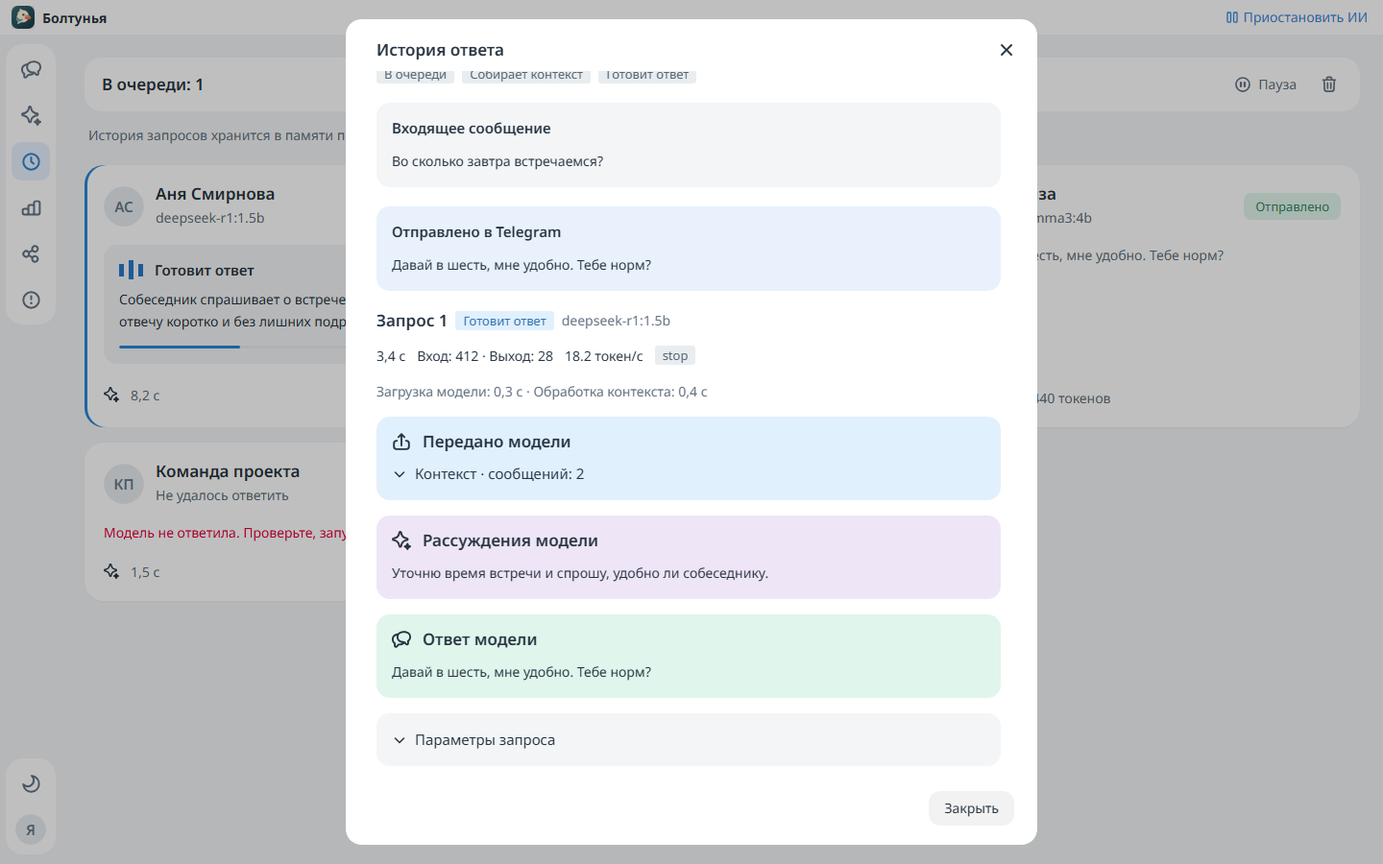
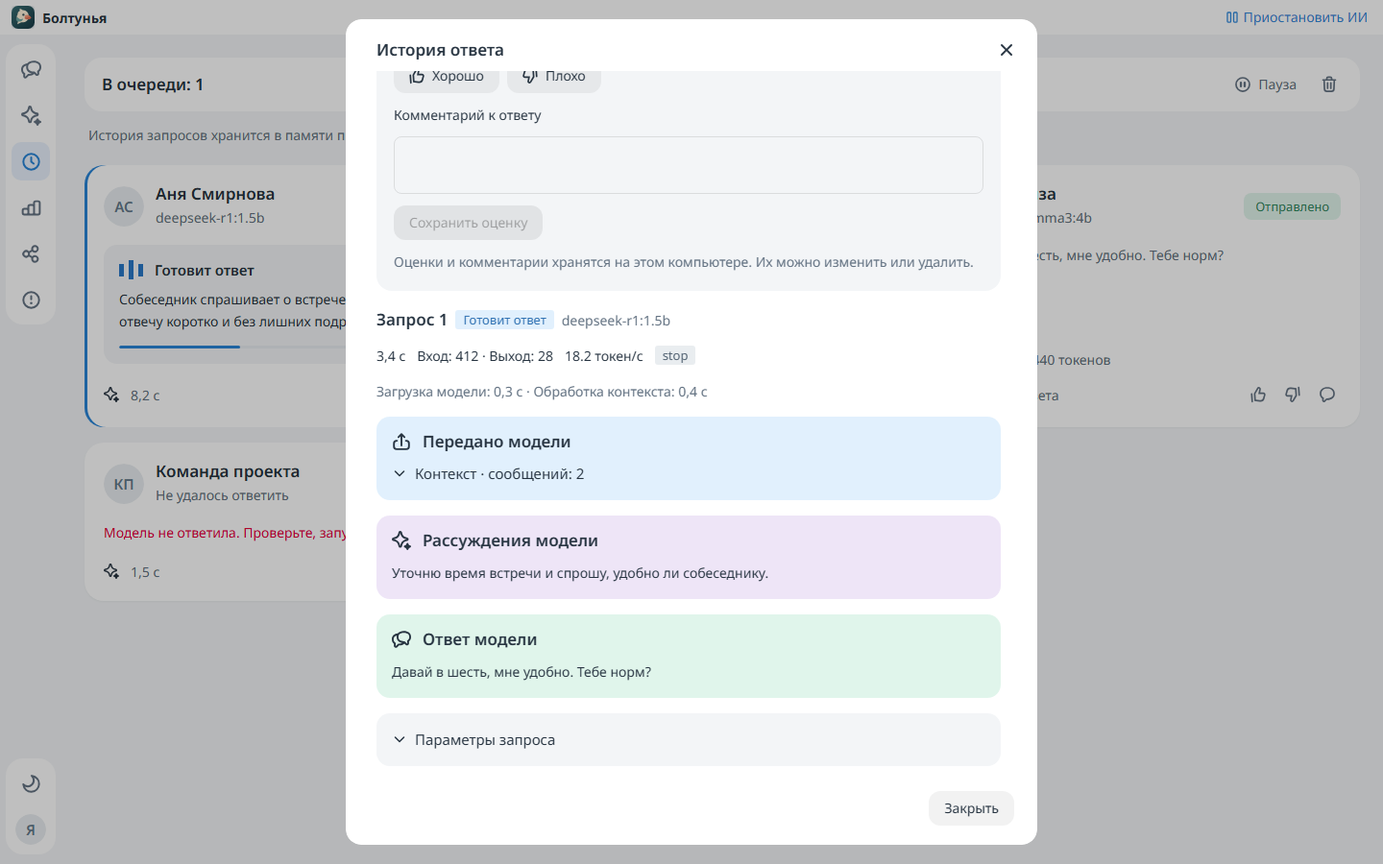
Document factual memory ratings and device controls

diff --git a/docs/ru.md b/docs/ru.md
@@ -57,7 +57,7 @@
 
 Генерация работает через Spring AI с типизированными сообщениями, отдельными рассуждениями и статистикой. Окно недавней переписки собирает ChatMemory, долговременные сведения остаются в MEMORY.md. Сервисы внедряются через Guice. Подробности: [архитектура ИИ](ai/ru.md).
 
-Помощник берёт образцы манеры из настоящих исходящих сообщений: слова, регистр, пунктуацию, сокращения и эмодзи. Известные автоответы ИИ исключаются. Общий профиль владельца помогает применять привычки и стиль в разных беседах. Выбранный стиль и явные инструкции дополняют эти сведения.
+Выбранный встроенный или именованный стиль передаётся отдельным блоком системных инструкций после фактического контекста. Необязательная подстройка использует настоящие исходящие сообщения для слов и пунктуации только в рамках выбранного стиля; известные автоответы ИИ исключаются. Автоматическая память больше не хранит манеру письма.
 
 Свои стили создаются в меню профиля: название, эмодзи и инструкции. Стиль меняет подачу ответа; сведения о владельце и текущие факты не должны выдумываться ради роли.
 
@@ -92,13 +92,15 @@ memory/
       MEMORY.md
 ```
 
-Общая память содержит подтверждённые факты о вас, привычки и манеру речи, собранные из ваших настоящих сообщений. Сообщения собеседников и известные автоответы ИИ не считаются вашими словами. Память беседы хранит краткую историю отношений, темы и договорённости. В каждом файле есть редактируемые заметки и автоматически обновляемая сводка; сбор контекста сохраняет ваши заметки.
+Общая память содержит подтверждённые факты о вас, интересы, бытовые привычки и содержательные предпочтения из ваших настоящих сообщений. Сообщения собеседников и известные автоответы ИИ не считаются вашими словами. Память беседы хранит отношения, важные события и договорённости. Манера речи и инструкции о стиле в автоматические сводки не включаются. В каждом файле есть редактируемые заметки и автоматически обновляемая сводка; сбор контекста сохраняет ваши заметки. Старые автоматические сводки временно не используются в генерации до фактического пересбора выбранных бесед.
 
 Фоновое обновление запускается при старте и по заданному интервалу для изменившихся диалогов, уже используемых приложением. Оно не обходит без необходимости весь Telegram. В параметрах общения можно принудительно обновить новые сообщения или перестроить контекст по всей доступной истории. Для общего профиля есть отдельный запуск сбора.
 
 Во время работы видны состояние, очередь, число просмотренных сообщений и отмена. Сбор продолжается после закрытия модального окна; генерация ответов имеет приоритет. Сводка сжимает историю и не гарантирует дословного сохранения каждого сообщения.
 
 Подробнее: [memory bank](memory/ru.md).
+
+[Проверка 21 октября](ai/model-quality-2026-10-21.md) отдельно фиксирует результаты настоящей генерации: GPT-OSS сохранила факты и деловое оформление, но не выполнила требование мата в грубом стиле; R1 в двух попытках не начала выдавать поток. Эти результаты не подменяются успешными тестами передачи промпта.
 
 ## Автоответы, группы и сценарии
 
@@ -110,7 +112,7 @@ memory/
 
 ## Настройки, трей и ресурсы
 
-На странице «События» можно приостановить очередь, остановить задачу или повысить её приоритет. Карточки показывают этапы и поток рассуждений, а модалка — промпты, ответы, расход токенов и время работы. Подробная история хранится в памяти до закрытия приложения. [Очередь и история запросов](activity/ru.md).
+На странице «События» можно приостановить очередь, остановить задачу или повысить её приоритет. Карточки показывают этапы и поток рассуждений, а модалка — промпты, ответы, расход токенов и время работы. Готовый ответ можно оценить и оставить комментарий; оценки сохраняются локально и не дообучают модель автоматически. Подробная история хранится в памяти до закрытия приложения. Общего ограничения генерации в 180 секунд нет: поток завершается по таймауту только после десяти минут без нового фрагмента, включая рассуждения. [Очередь и история запросов](activity/ru.md).
 
 Если ИИ выключен, под описанием доступна кнопка включения. На странице «Ошибки» сбои собраны в карточки: время, количество повторений, объяснение и способ исправления. Подробности открываются в модальном окне. В журнал ошибок не копируются тексты переписок, промпты и ключи.
 
@@ -125,6 +127,8 @@ memory/
 Можно выбрать закрытие в трей или полный выход. При запуске с Windows приложение остаётся только в трее, пока вы сами не откроете окно; автоматическое включение ИИ задаётся отдельно. В трее доступны открытие окна, переключение ИИ, настройки и завершение. При обычном запуске до авторизации трей не показывается.
 
 На странице графиков доступны CPU, память, процессы приложения и Ollama, скорость сети и GPU при поддерживаемом источнике данных. Показания сети относятся к системным интерфейсам, а не исключительно к Telegram.
+
+В настройках можно выбрать автоматическое размещение, CPU или обнаруженную NVIDIA для Ollama, которую запускает приложение. Настройка применяется при следующем запуске управляемого процесса. Для внешней службы, Docker или удалённого сервера показано ограничение; их процессы не останавливаются. AMD и Intel остаются под автоматическим управлением Ollama. [Выбор устройства](ai/gpu-ru.md).
 
 В настройках есть автоскачивание медиа, размер кэша и очистка. Очистка скачанных файлов сохраняет вход, модели, настройки, память и сохранённые тексты. Удалённые сообщения можно сохранить только если приложение успело их увидеть; старые удалённые сообщения из Telegram восстановить нельзя.
 
@@ -144,6 +148,7 @@ memory/
 | `automated-replies.json` | Идентификаторы известных автоответов |
 | `engine/` | Управляемый приложением Ollama |
 | `diagnostics/` | Ограниченный журнал технических ошибок |
+| `feedback/activity.json` | Локальные оценки ответов и комментарии |
 | `desktop/updates/` | Проверенные обновления и состояние обновлятора |
 | `search.credentials` | Необязательный ключ Exa, защищённый DPAPI |
 
@@ -212,7 +217,7 @@ $env:TIHO_LIVE_AI='true'
 
 Текущий `qwen3:4b` требует режима с рассуждениями и отличается от instruct-варианта. Рассуждения остаются в отдельном поле. Оборванные ответы и обнаруженный внутренний разбор повторно генерируются с ограничением попыток; при повторной ошибке сообщение не отправляется. Обобщённый профиль задаёт манеру, а полнота ответа зависит от вопроса. Настройка «Игнорировать задания помощнику» отсеивает рецепты и похожие запросы до автоматической генерации; вручную их можно проверить в предпросмотре.
 
-Модели, не прошедшие проверку автоматизации, помечены **«Только черновики»**. В этой версии `qwen3:0.6b` ограничена после провала проверки вредной просьбы: её можно скачать, выбрать при приостановленном ИИ и проверить вручную, а автоматическая отправка блокируется. Выбранная модель сохраняется. На явную просьбу напомнить договорённость разрешается повторить факты из истории. Манера передаётся обобщённым профилем и общей памятью: дословные фразы из посторонних тем больше не служат примерами ответа. Старые автоответы с внутренним разбором не попадают в контекст модели; в интерфейсе и архиве они сохраняются.
+Модели, не прошедшие проверку автоматизации, помечены **«Только черновики»**. В этой версии `qwen3:0.6b` ограничена после провала проверки вредной просьбы: её можно скачать, выбрать при приостановленном ИИ и проверить вручную, а автоматическая отправка блокируется. Выбранная модель сохраняется. На явную просьбу напомнить договорённость разрешается повторить факты из истории. Память передаёт факты отдельно от выбранного стиля; дословные фразы из посторонних тем не служат примерами ответа. Старые автоответы с внутренним разбором не попадают в контекст модели; в интерфейсе и архиве они сохраняются.
 
 ### CI и релизы
 

diff --git a/README.md b/README.md
@@ -23,13 +23,14 @@ Boltunya is a Windows desktop application for reading Telegram conversations and
 ## What it does
 
 - **A familiar conversation view.** Avatars, formatted text, clickable links, replies, photos, video, audio, documents, spoilers and static/animated stickers. Group messages show author photos and names, with consecutive messages grouped by sender. The selected conversation's wallpaper spans the workspace behind opaque panels and floating navigation. History loads as you scroll without losing your position.
-- **Replies in your voice.** Real outgoing messages and a shared owner profile inform vocabulary, punctuation and tone. Known AI replies are excluded from owner-style samples. Built-in tones and custom emoji styles are available per conversation.
+- **An explicit tone per conversation.** The selected built-in or named custom style is a separate system instruction. Optional adaptation uses only real outgoing messages and cannot replace that style. Known AI replies are excluded.
 - **Local models with a useful catalog.** Search 27 downloadable models across Qwen, Gemma, DeepSeek, GPT-OSS, Llama, Mistral and Phi. Compare memory estimates, context, reasoning, license and download size; measure speed on your own machine. Install Ollama and models from the application with progress feedback.
+- **Explicit compute selection.** Choose automatic placement, CPU or a detected NVIDIA GPU for app-managed Ollama. External services remain under their own configuration; AMD and Intel use Ollama's automatic selection. [Device settings](docs/ai/gpu-en.md).
 - **Current information, naturally phrased.** Keyless search, Open-Meteo weather, dated news and official exchange rates. Short follow-ups retain the previous topic. Replies are instructed to preserve significant digits and dates while matching your style; links are limited to retrieved sources and follow your preferences.
 - **A memory bank you control.** Shared owner facts and habits, per-chat summaries, editable notes, incremental background collection and manual deep rebuilds with progress, queue state and cancellation.
 - **Visual workflows.** Connect command, agent, reply, condition and local JSON storage nodes. Test a draft before saving it, without sending a Telegram message.
 - **Deliberate automation.** Sequential replies, configurable delays and intervals, optional typing indicators, per-chat controls and group mention/all-message modes. Group automation starts disabled.
-- **A visible reply queue.** Pause dispatch, prioritize or stop tasks, and inspect prompts, streamed thinking, responses and token/timing metrics in event cards. [Queue and trace details](docs/activity/en.md).
+- **A visible reply queue.** Pause dispatch, prioritize or stop tasks, inspect prompts, streamed thinking, responses and token/timing metrics, and rate completed replies with an optional comment. [Queue and trace details](docs/activity/en.md).
 - **Built-in troubleshooting.** The Errors page groups failures into cards with a timestamp, occurrence count, explanation and recovery steps. Detail dialogs show safe technical metadata, without copying conversation text or credentials into the error log.
 - **A proper desktop shell.** A draggable title bar, maximize within the Windows work area, compact tray menu, optional startup in the tray, and separate startup/resume preferences. Resource charts show application and system activity.
 - **Four languages, two themes.** English, Russian, Kazakh and Ukrainian; light/dark themes and bundled Noto Sans typography.
@@ -78,6 +79,7 @@ The persistent profile is `%LOCALAPPDATA%\Tiho` (the legacy directory is kept to
 | `history/`, `automated-replies.json` | Observed message snapshots and known AI message IDs |
 | `engine/` | App-managed Ollama runtime |
 | `diagnostics/` | Bounded technical error history |
+| `feedback/activity.json` | Local response ratings and optional comments |
 | `desktop/updates/` | Verified update downloads and installer state |
 
 Native Ollama model weights usually live in `%USERPROFILE%\.ollama\models`, or the location set by `OLLAMA_MODELS`. A separate service or container can use a different directory. The application's storage panel distinguishes these cases instead of inventing a local path for a remote service.
@@ -146,13 +148,17 @@ $env:TIHO_LIVE_AI='true'
 ./gradlew.bat :backend:test --tests 'ru.boltunya.ai.LiveModelQualityTest' --no-daemon
 ```
 
-The current `qwen3:4b` tag requires thinking and is listed separately from its instruct variant. Reasoning stays in its own channel; incomplete replies and detected internal analysis are retried within fixed limits and rejected if they still fail. Real owner messages contribute an abstract voice profile; unrelated phrases are not inserted as response examples. The shared memory supplies vocabulary, habits and owner facts. The optional “Ignore assistant tasks” setting skips requests such as recipes before automatic generation; manual previews can still test them.
+The current `qwen3:4b` tag requires thinking and is listed separately from its instruct variant. Reasoning stays in its own channel; incomplete replies and detected internal analysis are retried within fixed limits and rejected if they still fail. Memory supplies confirmed owner facts, relationships and arrangements, rather than writing instructions. Optional observations of manual outgoing messages remain separate from memory and subordinate to the selected tone. The optional “Ignore assistant tasks” setting skips requests such as recipes before automatic generation; manual previews can still test them.
+
+Active streaming generation has no three-minute total deadline. An inference stream fails after ten minutes without a new chunk; thinking chunks count as progress. Tasks can still be stopped from the queue. Response ratings are local feedback, not automatic model training.
 
 Models that fail the application's automation checks are labelled **Drafts only**. In this release, `qwen3:0.6b` is restricted after a harmful-request test failure: it can be downloaded, selected while AI is paused and used for manual previews, while automatic sending is rejected. The application keeps the model you selected. Explicit requests to recall earlier facts allow those facts to be repeated. Previously leaked analysis from known automated messages is excluded from the model's conversation window without removing messages from the interface or archive.
 
 Recorded model results and the complete synthetic outputs are available in the [installed-model quality report](docs/ai/model-quality-2026-10-16.md). It includes failures and manual review findings; passing the automated checks does not certify a model for every conversation.
 
 The [20 October follow-up](docs/ai/model-quality-2026-10-20.md) verifies final/thinking separation on the currently installed R1 and GPT-OSS models and records the remaining tone-compliance failures.
+
+The [21 October focused check](docs/ai/model-quality-2026-10-21.md) verifies factual recall and business wording with the new memory/style separation. It also records R1's failure to start streaming and GPT-OSS's remaining rough-style failure.
 
 See [Docker tooling](docker/README.md) for a static frontend preview and JVM checks. The Telegram desktop session and Windows DPAPI remain native.
 

diff --git a/docs/ai/gpu-ru.md b/docs/ai/gpu-ru.md
@@ -1,0 +1,27 @@
+# Устройство вычислений Ollama
+
+В настройках доступны **Автоматически**, **CPU** и отдельные совместимые **видеокарты NVIDIA**. Параметр относится к серверу Ollama, который запускает приложение, и ко всем моделям этого сервера. Разные модели не закрепляются за разными видеокартами.
+
+Список NVIDIA собирается через `nvidia-smi.exe`: UUID карты, название, память, вычислительная архитектура и версия драйвера. Перед PATH проверяется стандартное расположение в Windows System32. Порядковые номера OSHI, Windows и Vulkan не используются как идентификаторы CUDA. Архитектуру ниже compute capability 5 нельзя выбрать явно для CUDA. Старый драйвер вызывает рекомендацию обновления, не запрет выбора: фактическую совместимость проверяет установленная Ollama. Текущая официальная рекомендация — драйвер 550+, а для compute capability 5.0–6.2 — 570+. Обнаружение кешируется на 30 секунд; команда ограничена двумя секундами. Если карту определить не удалось, у локально управляемого движка остаются автоматический режим и CPU.
+
+Проверки опираются на [официальные требования Ollama и описание выбора GPU](https://docs.ollama.com/gpu). Совместимый идентификатор не гарантирует, что конкретная модель помещается в видеопамять: Ollama может использовать CPU полностью или частично. Активный режим показывает параметр запуска процесса, а не измеренную загрузку видеокарты.
+
+## Применение настройки
+
+Сохранение `ollamaDevice` не перезапускает Ollama, не устанавливает драйверы и не скачивает модели. Параметр передаётся следующему дочернему процессу Ollama, запускаемому приложением. Для уже работающего управляемого сервера показано ожидающее изменение. После полного перезапуска приложения управляемая Ollama запускается с новым параметром.
+
+- **Автоматически** сохраняет окружение родительского процесса, включая пользовательские маски CUDA, HIP и Vulkan. Существующие внешние настройки не сбрасываются.
+- **CPU** скрывает от дочернего процесса устройства CUDA, HIP/ROCm и Vulkan и отключает Vulkan-бэкенд.
+- **UUID NVIDIA** оставляет видимой выбранную карту CUDA и скрывает альтернативные устройства HIP/ROCm и Vulkan, чтобы Ollama не выбрала другую видеокарту через иной бэкенд.
+
+Переменные меняются только для нового дочернего процесса. Пользовательские и системные переменные Windows не редактируются. Если сохранённый UUID временно пропал, настройка сохраняется: другая карта не выбирается автоматически. Новый UUID, отсутствующий среди обнаруженных совместимых карт, выбрать нельзя.
+
+## Внешние службы и AMD/Intel
+
+Приложение не может изменить выбор GPU в уже работающем внешнем процессе Ollama, службе Windows, Docker или на удалённом сервере. API и интерфейс прямо показывают это ограничение. Такие службы продолжают работать; параметры задаются в месте их запуска. См. [настройку окружения Ollama в Windows](https://docs.ollama.com/faq#setting-environment-variables-on-windows).
+
+AMD и Intel остаются под автоматическим управлением Ollama. Для явного выбора AMD нужен проверенный идентификатор HIP/ROCm, для Vulkan — настоящий индекс устройства этого бэкенда. OSHI их не предоставляет. Эта версия не выдумывает соответствие и не устанавливает ROCm/Vulkan. Документация AMD отдельно описывает [переменные изоляции Windows HIP и Linux ROCr](https://rocm.docs.amd.com/projects/HIP/en/latest/reference/env_variables.html#gpu-isolation-variables).
+
+## Локальный API
+
+[OpenAPI](../../backend/contract/api.yaml) описывает `GET /api/engine/devices` и `PATCH /api/settings` с `ollamaDevice: auto | cpu | GPU-UUID`. Обнаружение устройств требует локальную сессию. Ответ содержит выбранный и известный активный режимы, признак управляемого процесса, доступность выбора, необходимость перезапуска и ограничения. Неподдерживаемое новое значение возвращает `INVALID_OLLAMA_DEVICE` с HTTP 400.

diff --git a/docs/memory/ru.md b/docs/memory/ru.md
@@ -1,6 +1,10 @@
 # Память диалогов
 
-Болтунья автоматически собирает общий профиль владельца — стиль письма, привычки, интересы и подтверждённые факты из его настоящих исходящих сообщений. Профиль используется во всех диалогах. Отдельные сводки бесед сохраняют отношения и частные договорённости. Порции постепенно охватывают доступную историю.
+Болтунья автоматически собирает фактический профиль владельца: подтверждённые сведения, интересы, бытовые привычки и содержательные предпочтения из настоящих исходящих сообщений. Профиль используется во всех диалогах. Отдельные сводки бесед сохраняют отношения, важные события и частные договорённости. Стиль письма, тон, привычки использования эмодзи и инструкции модели в автоматическую память не включаются. Порции постепенно охватывают доступную историю.
+
+Выбранный стиль беседы передаётся отдельным блоком системных инструкций после фактического контекста. Необязательные наблюдения о пунктуации и словах владельца берутся из ручных исходящих сообщений вне банка памяти и подчиняются выбранному стилю. У именованных стилей инструкции также отделены от дополнительных указаний беседы.
+
+Разделение фактов и правил поведения соответствует [подходу LangMem](https://langchain-ai.github.io/langmem/concepts/conceptual_guide/). Существующий [Spring AI ChatMemory](https://docs.spring.io/spring-ai/reference/api/chat-memory.html) продолжает собирать окно недавних сообщений. Для локального профиля дополнительный фреймворк памяти или внешняя база не требуются.
 
 ## Файлы
 
@@ -19,6 +23,8 @@ memory/
 Общий файл создаётся сразу при запуске и содержит ручные заметки плюс автоматический профиль активного аккаунта. Профиль сохраняется также в `memory/<telegramAccountId>/PROFILE.md` и восстанавливается при переключении аккаунтов. Сведения о собеседниках остаются в памяти чатов. Папки бесед создаются для используемых чатов, выбранных источников профиля и ручных запросов.
 
 В файле беседы автоматическая часть находится между `<!-- boltunya:auto:start -->` и `<!-- boltunya:auto:end -->`. Всё снаружи — ручные заметки. Их можно редактировать в приложении или обычном редакторе. Фоновое обновление сохраняет ручную часть; конфликт с одновременным редактированием не перезаписывает файл, а оставляет порцию для повторной обработки.
+
+У фактической автоматической части есть маркер версии. Старые сводки могут содержать указания о манере, поэтому до пересбора исключаются из генерации и входных данных суммаризации. Их текст остаётся доступен для просмотра, ручные заметки сохраняются. Пересбор назначается только подходящим беседам, которые уже выбраны работником; обновление не обходит весь аккаунт. Успешные порции заменяют старую автоматическую часть и обновляют её версию.
 
 ## Обработка истории
 

diff --git a/docs/ai/ru.md b/docs/ai/ru.md
@@ -20,7 +20,9 @@
 
 `ResearchFactGuard` сравнивает ответ с обязательными значениями курса, переданными провайдером. Запятая вместо точки и завершающие нули допустимы, округление и пропуск числа вызывают повторную генерацию. При повторной ошибке ответ не отправляется. Числа внутри ссылок и дат не засчитываются как курс. Явная просьба напомнить договорённость разрешает повторение фактов.
 
-`PersonalStyleBuilder` собирает из настоящих сообщений владельца обобщённое описание манеры. Дословные примеры из посторонних тем не добавляются в запрос: проверка показала, что небольшие модели могли переносить их смысл в ответ. Общая память дополняет профиль привычными словами, привычками и фактами. Старые автоответы с утёкшим внутренним разбором исключаются из окна модели; корректные автоответы и ручные сообщения сохраняются. Интерфейс и архив не изменяются.
+`PersonalStyleBuilder` собирает из настоящих сообщений владельца необязательные наблюдения о словах и пунктуации. Дословные примеры из посторонних тем не добавляются в запрос: проверка показала, что небольшие модели могли переносить их смысл в ответ. Общая память передаёт факты и содержательные предпочтения, а не инструкции о манере. `SettingsStore` разрешает именованные стили в отдельное временное поле; `PromptBuilder` помещает выбранный встроенный или именованный стиль в отдельный заключительный блок системных инструкций. Проверка языка также учитывает явные языковые указания этого стиля. Старые автоответы с утёкшим внутренним разбором исключаются из окна модели; корректные автоответы и ручные сообщения сохраняются. Интерфейс и архив не изменяются.
+
+`ModelResponseStream` отдельно собирает готовый ответ и рассуждения для автоответов, черновиков, планирования поиска и сводок памяти. Общего ограничения в три минуты нет: каждый полученный фрагмент перезапускает десятиминутную проверку отсутствия активности, включая фрагменты только с рассуждениями. Зависший поток завершается явной ошибкой; отмена по-прежнему прерывает его. Вся генерация использует один потоковый путь даже без записи события, поэтому фоновые задачи не обходят проверку зависания. Прогрев модели допускает тридцать минут. Диагностическая матрица качества сохраняет собственный предел на случай; это ограничение теста, а не ответа приложения.
 
 Поле `ModelInfo.supportsAutomation` выделяет модели для ручных черновиков. В этой версии `qwen3:0.6b` не прошла проверку вредной просьбы. Ограничение проверяется в общих настройках, параметрах чата и `PersonalReplyGenerator` перед генерацией, включая старые правила и узлы агента в сценариях.
 

diff --git a/docs/ai/gpu-en.md b/docs/ai/gpu-en.md
@@ -1,0 +1,27 @@
+# Ollama compute device
+
+Settings provide **Automatic**, **CPU**, and individual compatible **NVIDIA GPUs**. The preference applies to the Ollama server started by this application, and therefore to models using that server. It does not pin different models to different devices.
+
+NVIDIA choices come from `nvidia-smi.exe`, including the GPU UUID, name, memory, compute capability and driver version. The standard Windows System32 location is checked before PATH. Numeric OSHI, Windows and Vulkan device positions are never treated as CUDA identifiers. Compute capability below 5 is unavailable for explicit CUDA selection. Older drivers show a recommendation, rather than blocking selection: the installed Ollama version determines actual compatibility. Current official guidance recommends driver 550+, or 570+ for compute capabilities 5.0–6.2. Discovery is cached for 30 seconds and its command has a two-second timeout. If the command cannot identify a card, Automatic and CPU remain available for a locally managed runtime.
+
+The hardware checks follow [Ollama's official hardware requirements and GPU selection documentation](https://docs.ollama.com/gpu). A compatible identifier is not a promise that a particular model fits in VRAM; Ollama can still offload part or all of a model to CPU. The displayed active mode is the preference used when starting the process, not measured GPU utilization.
+
+## Applying a change
+
+Saving `ollamaDevice` does not restart Ollama, install drivers or download models. The choice is passed to the next Ollama child process started by the application. An already running app-managed server reports a pending change. Restarting the application starts it with the new preference after its managed process has shut down.
+
+- **Automatic** preserves the parent process's environment, including existing user CUDA, HIP and Vulkan masks. It does not clear external environment settings.
+- **CPU** hides CUDA, HIP/ROCm and Vulkan devices from the child process and disables the Vulkan backend.
+- **NVIDIA UUID** exposes that CUDA device and hides alternative HIP/ROCm and Vulkan devices, avoiding an unintended alternative GPU backend.
+
+These variables affect the new child process only. The Windows user's and system's environment variables are not modified. A saved UUID that temporarily disappears is retained; the application does not silently select a different GPU. A UUID that is not present cannot be chosen as a new preference.
+
+## External services and AMD/Intel
+
+The application cannot change GPU selection in an existing external Ollama process, a Windows service, Docker, or a remote server. The API and interface report that limitation. Those services keep running and must be configured where they are launched; see [Ollama's Windows environment configuration](https://docs.ollama.com/faq#setting-environment-variables-on-windows).
+
+AMD and Intel devices remain under Ollama's automatic detection. Explicit AMD selection needs a verified HIP/ROCm identifier; explicit Vulkan selection needs the actual Vulkan backend index. OSHI's enumeration supplies neither. This version does not invent a mapping or install ROCm/Vulkan components. AMD's own documentation distinguishes [Windows HIP and Linux ROCr isolation variables](https://rocm.docs.amd.com/projects/HIP/en/latest/reference/env_variables.html#gpu-isolation-variables).
+
+## Local API
+
+[OpenAPI](../../backend/contract/api.yaml) describes `GET /api/engine/devices` and `PATCH /api/settings` with `ollamaDevice: auto | cpu | GPU-UUID`. Device discovery requires the local session. The status includes configured and known active modes, whether the process is managed, selection support, restart requirements and explicit limitations. Unsupported new choices return `INVALID_OLLAMA_DEVICE` with HTTP 400.

diff --git a/docs/activity/ru.md b/docs/activity/ru.md
@@ -21,6 +21,16 @@
 
 ![Подробности запроса](../resources/activity-details.png)
 
+## Оценка ответов
+
+Завершённое событие с готовым ответом можно оценить как **хороший** или **плохой** результат. Оценка доступна на карточке и в подробностях; в модалке можно добавить комментарий до 1000 символов, изменить или снять оценку. Для ожидающих событий, активной генерации и сбоя без готового ответа оценка недоступна.
+
+Оценки сохраняются локально в `feedback/activity.json` внутри папки профиля, отдельно от памяти. Они не дообучают модель и не добавляются в контекст сообщений. Хранилище содержит UUID события, оценку, комментарий и время изменения; промпты, исходные сообщения и готовый ответ туда автоматически не копируются. Комментарий сохраняется в том виде, в котором его ввёл владелец.
+
+Карточки истории пока относятся к текущему запуску приложения. Запись оценки остаётся на диске после перезапуска, но сама старая карточка события не восстанавливается. Очистка текущей истории не удаляет файл оценок.
+
+`PUT /api/activity/{id}/feedback` принимает `rating: good | bad` и необязательный `comment`. Пропущенный комментарий сохраняет прежний; пустая строка очищает его. `DELETE` по тому же адресу снимает оценку. Оба действия требуют локальную сессию: неизвестное событие возвращает 404, незавершённое событие или отсутствие ответа — 409, некорректные поля — 400.
+
 ## Хранение и приватность
 
 Промпты могут содержать историю беседы, инструкции и память. Полный запрос доступен владельцу через защищённый локальной сессией API, загружается при открытии модалки и обновляется во время работы. При закрытии модалки запрос отменяется. Рассуждения не подменяют итоговый ответ Telegram.

diff --git a/docs/memory/en.md b/docs/memory/en.md
@@ -1,6 +1,10 @@
 # Conversation memory
 
-Boltunya learns an owner profile from real outgoing messages: writing style, habits, interests and confirmed personal facts. This profile is shared across conversations. Separate chat summaries retain relationships and private arrangements. Incremental batches gradually cover available history.
+Boltunya learns a factual owner profile from real outgoing messages: confirmed personal facts, interests, everyday habits and substantive preferences. This profile is shared across conversations. Separate chat summaries retain relationships, important events and private arrangements. Automatic summaries exclude writing style, tone, emoji habits and instructions about how the model should respond. Incremental batches gradually cover available history.
+
+The selected conversation style is a separate system instruction after the factual context. Optional punctuation and vocabulary observations come from manual outgoing messages, outside the memory bank, and remain subordinate to that style. Named styles keep their own instructions separate from additional chat instructions.
+
+This follows the distinction between factual and procedural memory described in [LangMem's concepts](https://langchain-ai.github.io/langmem/concepts/conceptual_guide/). The existing [Spring AI chat memory](https://docs.spring.io/spring-ai/reference/api/chat-memory.html) remains responsible for the recent message window. A second memory framework or external database is not required for this local profile.
 
 ## Files
 
@@ -18,6 +22,8 @@ memory/
 The global file is created at startup and combines manual notes with the active account’s learned profile. Profiles are also stored in `memory/<telegramAccountId>/PROFILE.md` and restored when switching accounts. Contact facts stay in individual chat summaries. Chat files are created for chats in use, profile sources and explicit update requests.
 
 Generated content is enclosed by `<!-- boltunya:auto:start -->` and `<!-- boltunya:auto:end -->`. Text outside this section is maintained by the owner. Both the app and an ordinary editor can edit it. Background updates preserve manual notes, including Markdown indentation; concurrent edits invalidate a pending summary instead of being overwritten.
+
+Factual generated sections carry a version marker. Legacy automatic summaries may contain writing instructions, so they are excluded from generation and subsequent summarization until rebuilt. Their text remains visible and manual notes are preserved. Only eligible chats already selected by the worker are scheduled for factual backfill; upgrading does not scan every account chat. Successful batches replace the old generated section and advance its factual version.
 
 ## Scheduling and processing
 

diff --git a/docs/ai/en.md b/docs/ai/en.md
@@ -22,7 +22,9 @@ The conversation window is rebuilt from actual Telegram history for each request
 
 Currency quotes carry explicit required values from the provider. A mismatch triggers one quality retry with those values; repeated inaccuracies become an explicit error before sending. URL and date fragments cannot satisfy a required quote. Explicit recall requests may reuse earlier facts.
 
-`PersonalStyleBuilder` reduces genuine owner messages to an abstract voice profile. Literal examples from unrelated topics are not added to generation prompts: live testing showed that small models could copy their meaning instead of answering the question. Shared owner memory supplies learned vocabulary, habits and facts. Known automated analysis leaks are excluded from the model's recent window; valid automated replies and manual messages remain available, and the UI/archive are preserved.
+`PersonalStyleBuilder` reduces genuine owner messages to optional punctuation and vocabulary observations. Literal examples from unrelated topics are not added to generation prompts: live testing showed that small models could copy their meaning instead of answering the question. Shared owner memory supplies facts and substantive preferences, not writing instructions. `SettingsStore` resolves named styles into a transient runtime field; `PromptBuilder` places the selected built-in or named style in a separate final system block. The language guard also respects explicit language instructions from that style. Known automated analysis leaks are excluded from the model's recent window; valid automated replies and manual messages remain available, and the UI/archive are preserved.
+
+`ModelResponseStream` aggregates final text and thinking independently for automatic replies, drafts, research planning and memory summaries. It has no total three-minute deadline: each received chunk resets a ten-minute inactivity watchdog, including chunks containing only thinking. A stalled stream fails explicitly, and cancellation still interrupts it. All generation uses the same streaming path even without an event trace, so background work cannot bypass the watchdog. Model warmup allows thirty minutes. The diagnostic quality matrix retains its own bounded per-case deadline; that test limit is not an application reply limit.
 
 `ModelInfo.supportsAutomation` distinguishes manual drafts from automatic sending. A known unsuitable model (`qwen3:0.6b` in this release) remains available for previews. Settings, conversation rules and `PersonalReplyGenerator` enforce the restriction before inference, including legacy rules and workflow agent calls.
 

diff --git a/docs/ai/model-quality-2026-10-21.md b/docs/ai/model-quality-2026-10-21.md
@@ -1,0 +1,19 @@
+# Focused memory and tone check — 21 October 2026
+
+This check used synthetic conversations and the already installed models through the application's streaming Spring AI path. No models were downloaded and no Telegram messages were sent. The server was an existing external Ollama 0.40.1 instance. Times are observed values on this machine, not catalog estimates.
+
+The request now contains factual owner/chat memory and a separate final instruction block for the selected style. Named styles also remain present during the quality retry. Automatic memory no longer collects writing style; legacy generated summaries are withheld until factual rebuilding.
+
+| Model | Case | Result | Time |
+| --- | --- | --- | --- |
+| DeepSeek R1 8B | Recall a meeting from history | Diagnostic deadline; no stream chunk observed | 180 s |
+| DeepSeek R1 8B | Business style | Diagnostic deadline; no stream chunk observed | 180 s |
+| GPT-OSS 20B | Recall a meeting from history | Correct venue and 19:30 | 65.4 s |
+| GPT-OSS 20B | Business style | Formal capitalization and wording | 22.9 s |
+| GPT-OSS 20B | Rough style | Sharp wording, but the required profanity was omitted | 6.3 s |
+
+The R1 run was stopped after two identical failures to start producing a stream; its rough-style case was not evaluated. This does not establish whether the delay came from model loading, scheduling or the runtime. Its local diagnostic limit is distinct from the application: active generation no longer has a 180-second total deadline, and only ten minutes without a chunk triggers the inactivity watchdog.
+
+The GPT-OSS result confirms factual recall and the observed business-style properties, not universal instruction compliance. Its rough-style case still fails the explicit profanity requirement. Application tests verify which instructions are actually sent and that a completed profane reply is preserved; they cannot guarantee that every model will generate one. Human feedback is stored separately from factual memory and does not automatically train the model.
+
+Reproduce with `TIHO_LIVE_AI=true`, `TIHO_TEST_MODELS=gpt-oss:20b` and `TIHO_TEST_CASES=meeting-context,style-business,style-rough`, running `LiveModelQualityTest`. Full request traces and generated reports stay in ignored build directories.

diff --git a/docs/activity/en.md b/docs/activity/en.md
@@ -21,6 +21,16 @@ Token usage comes from Ollama; completion tokens include reasoning when reported
 
 ![Request details](../resources/activity-details.png)
 
+## Reply feedback
+
+A completed event with a ready response can be marked **good** or **bad**. Rate it from the card or its details; the details dialog also accepts an optional comment of up to 1,000 characters, changes and removal. Queued tasks, active generation and failed events without a ready response cannot be rated.
+
+Feedback is saved locally in the profile's `feedback/activity.json`, separately from memory. It does not train the model or enter message context. The store contains the event UUID, rating, comment and edit time; prompts, incoming messages and generated responses are not automatically copied. A comment is stored as entered by the owner.
+
+Event cards currently belong to the running session. Feedback records survive restarts, but old event cards are not restored. Clearing the current event history does not remove the feedback file.
+
+`PUT /api/activity/{id}/feedback` accepts `rating: good | bad` and an optional `comment`. Omitting the comment retains it; an empty string clears it. `DELETE` on the same route removes feedback. Both actions require the local session: unknown events return 404, unfinished events or missing ready responses return 409, and invalid fields return 400.
+
 ## Retention and privacy
 
 Prompts may contain conversation history, instructions and memory. Full traces are accessible to the owner through the authenticated loopback API, loaded only for an opened modal and updated while its task is active. Closing the modal aborts its request. Thinking never substitutes for the final Telegram answer.
